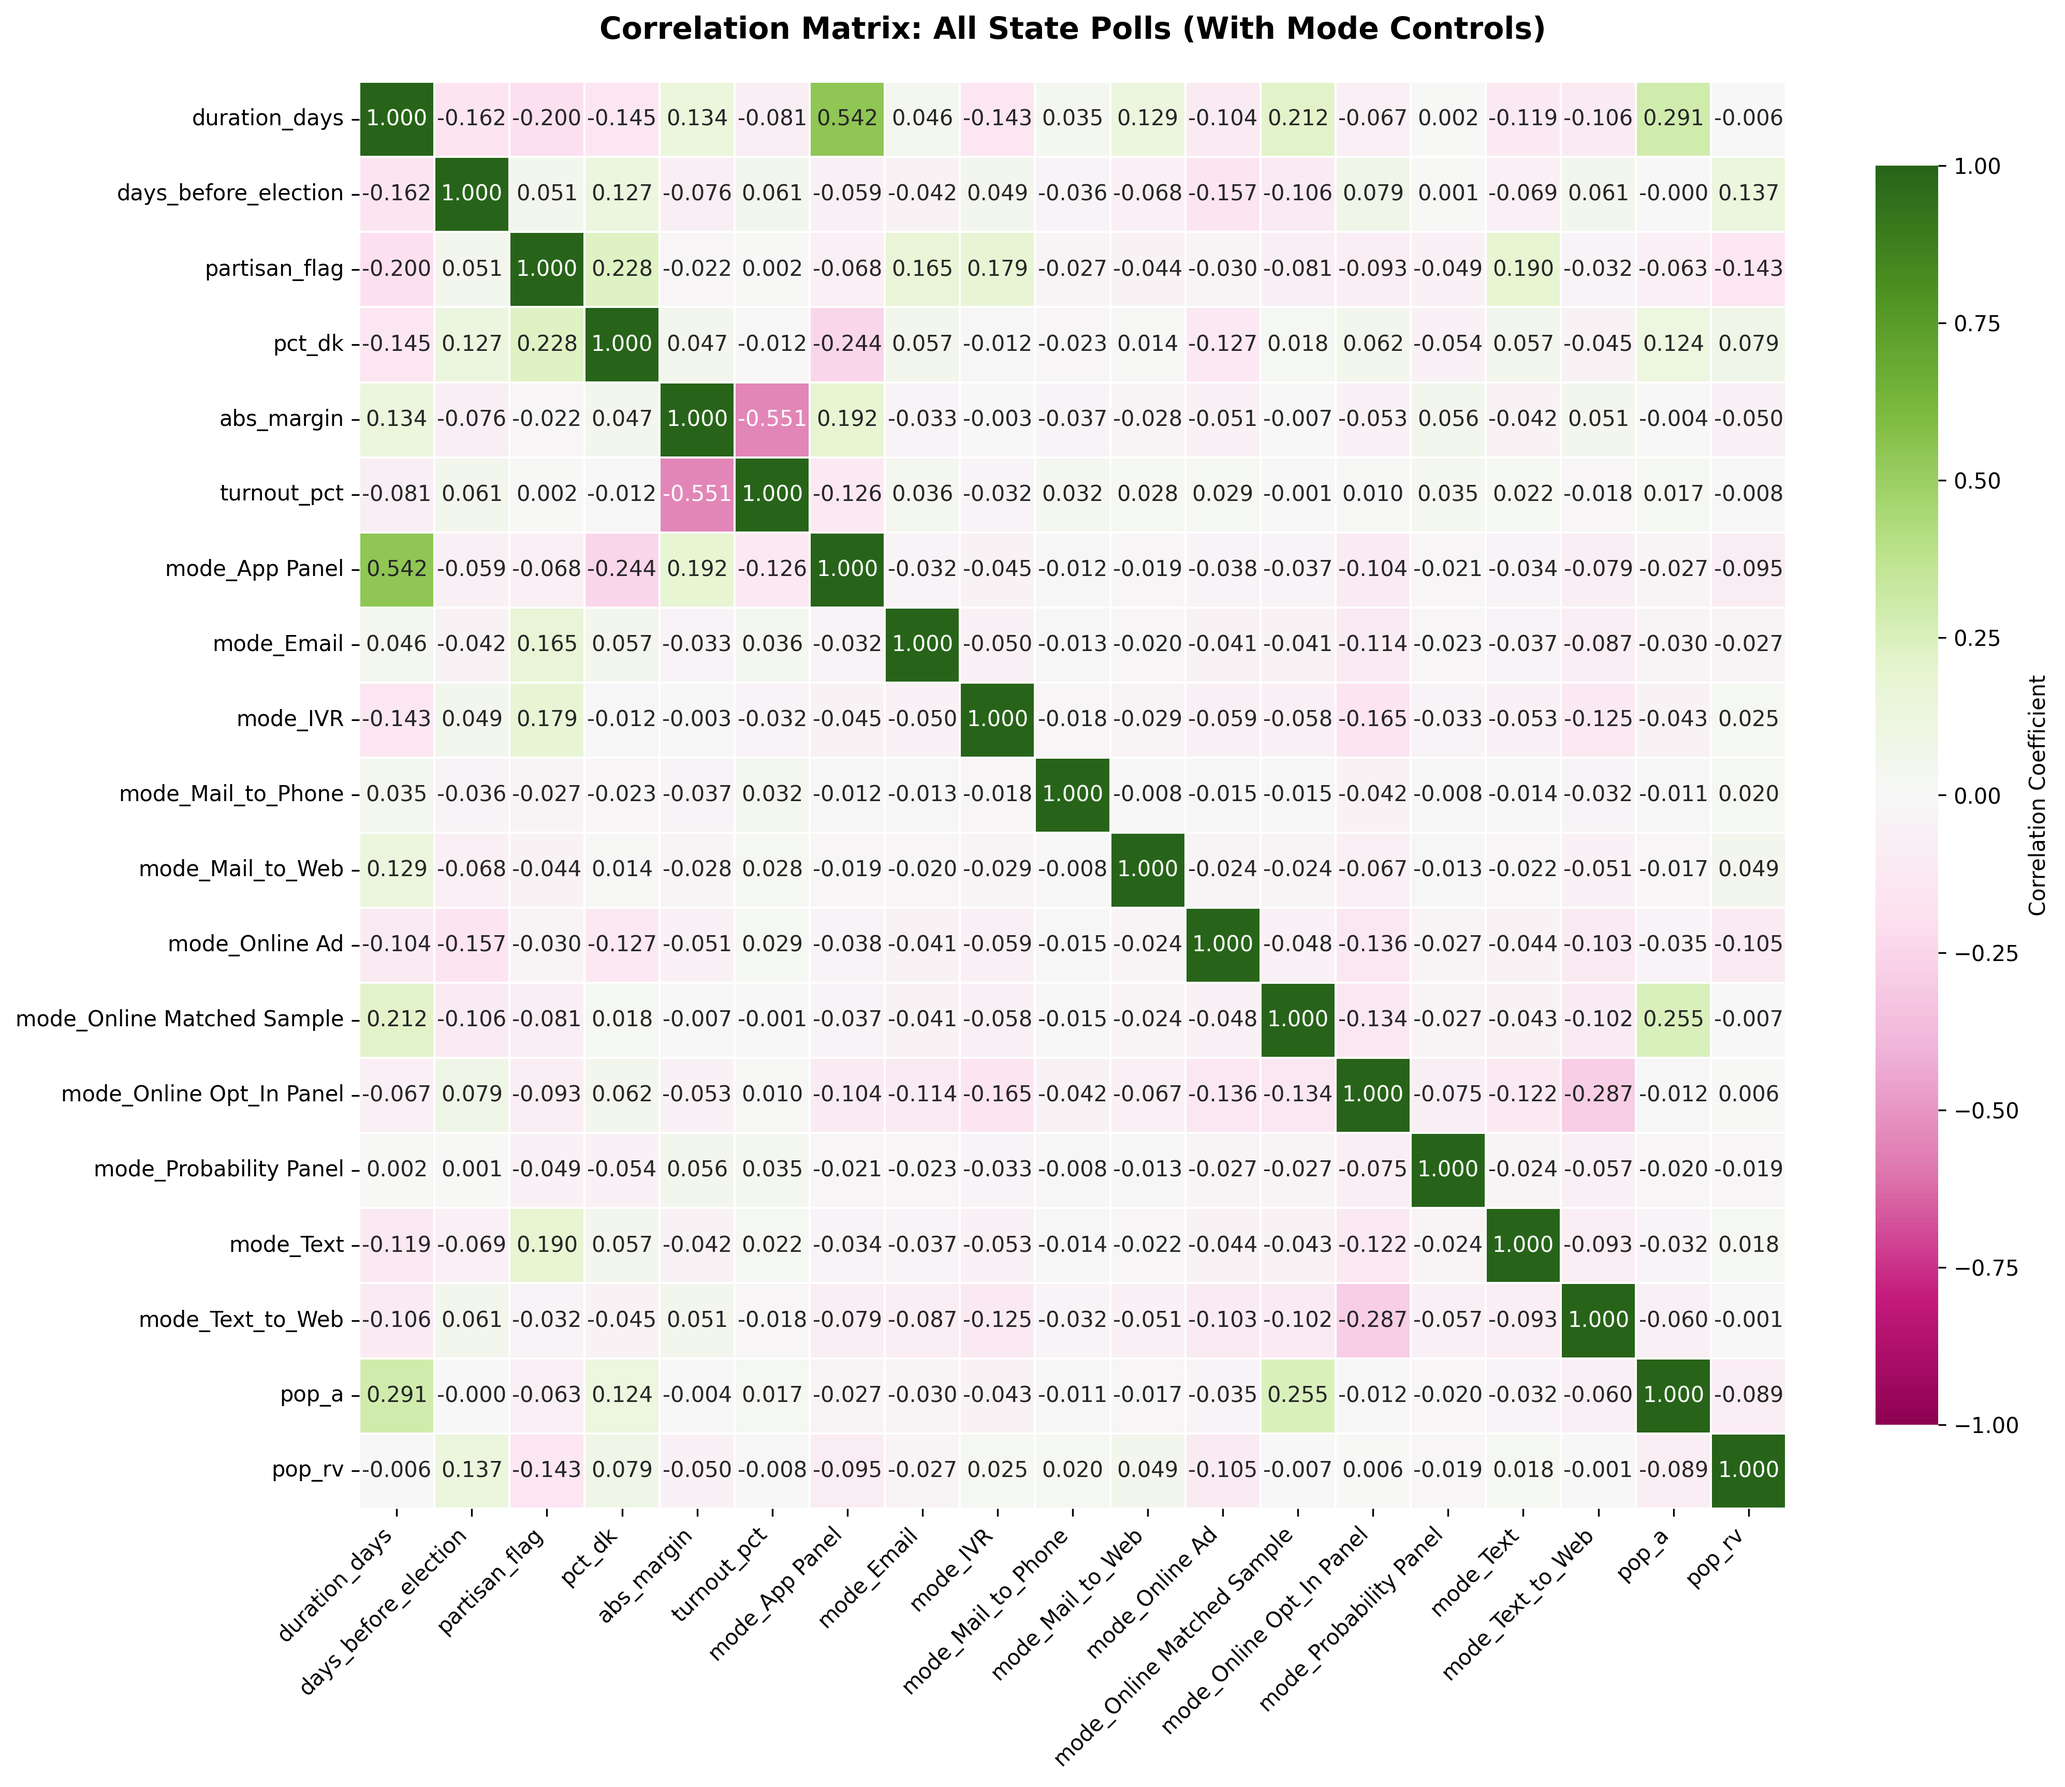
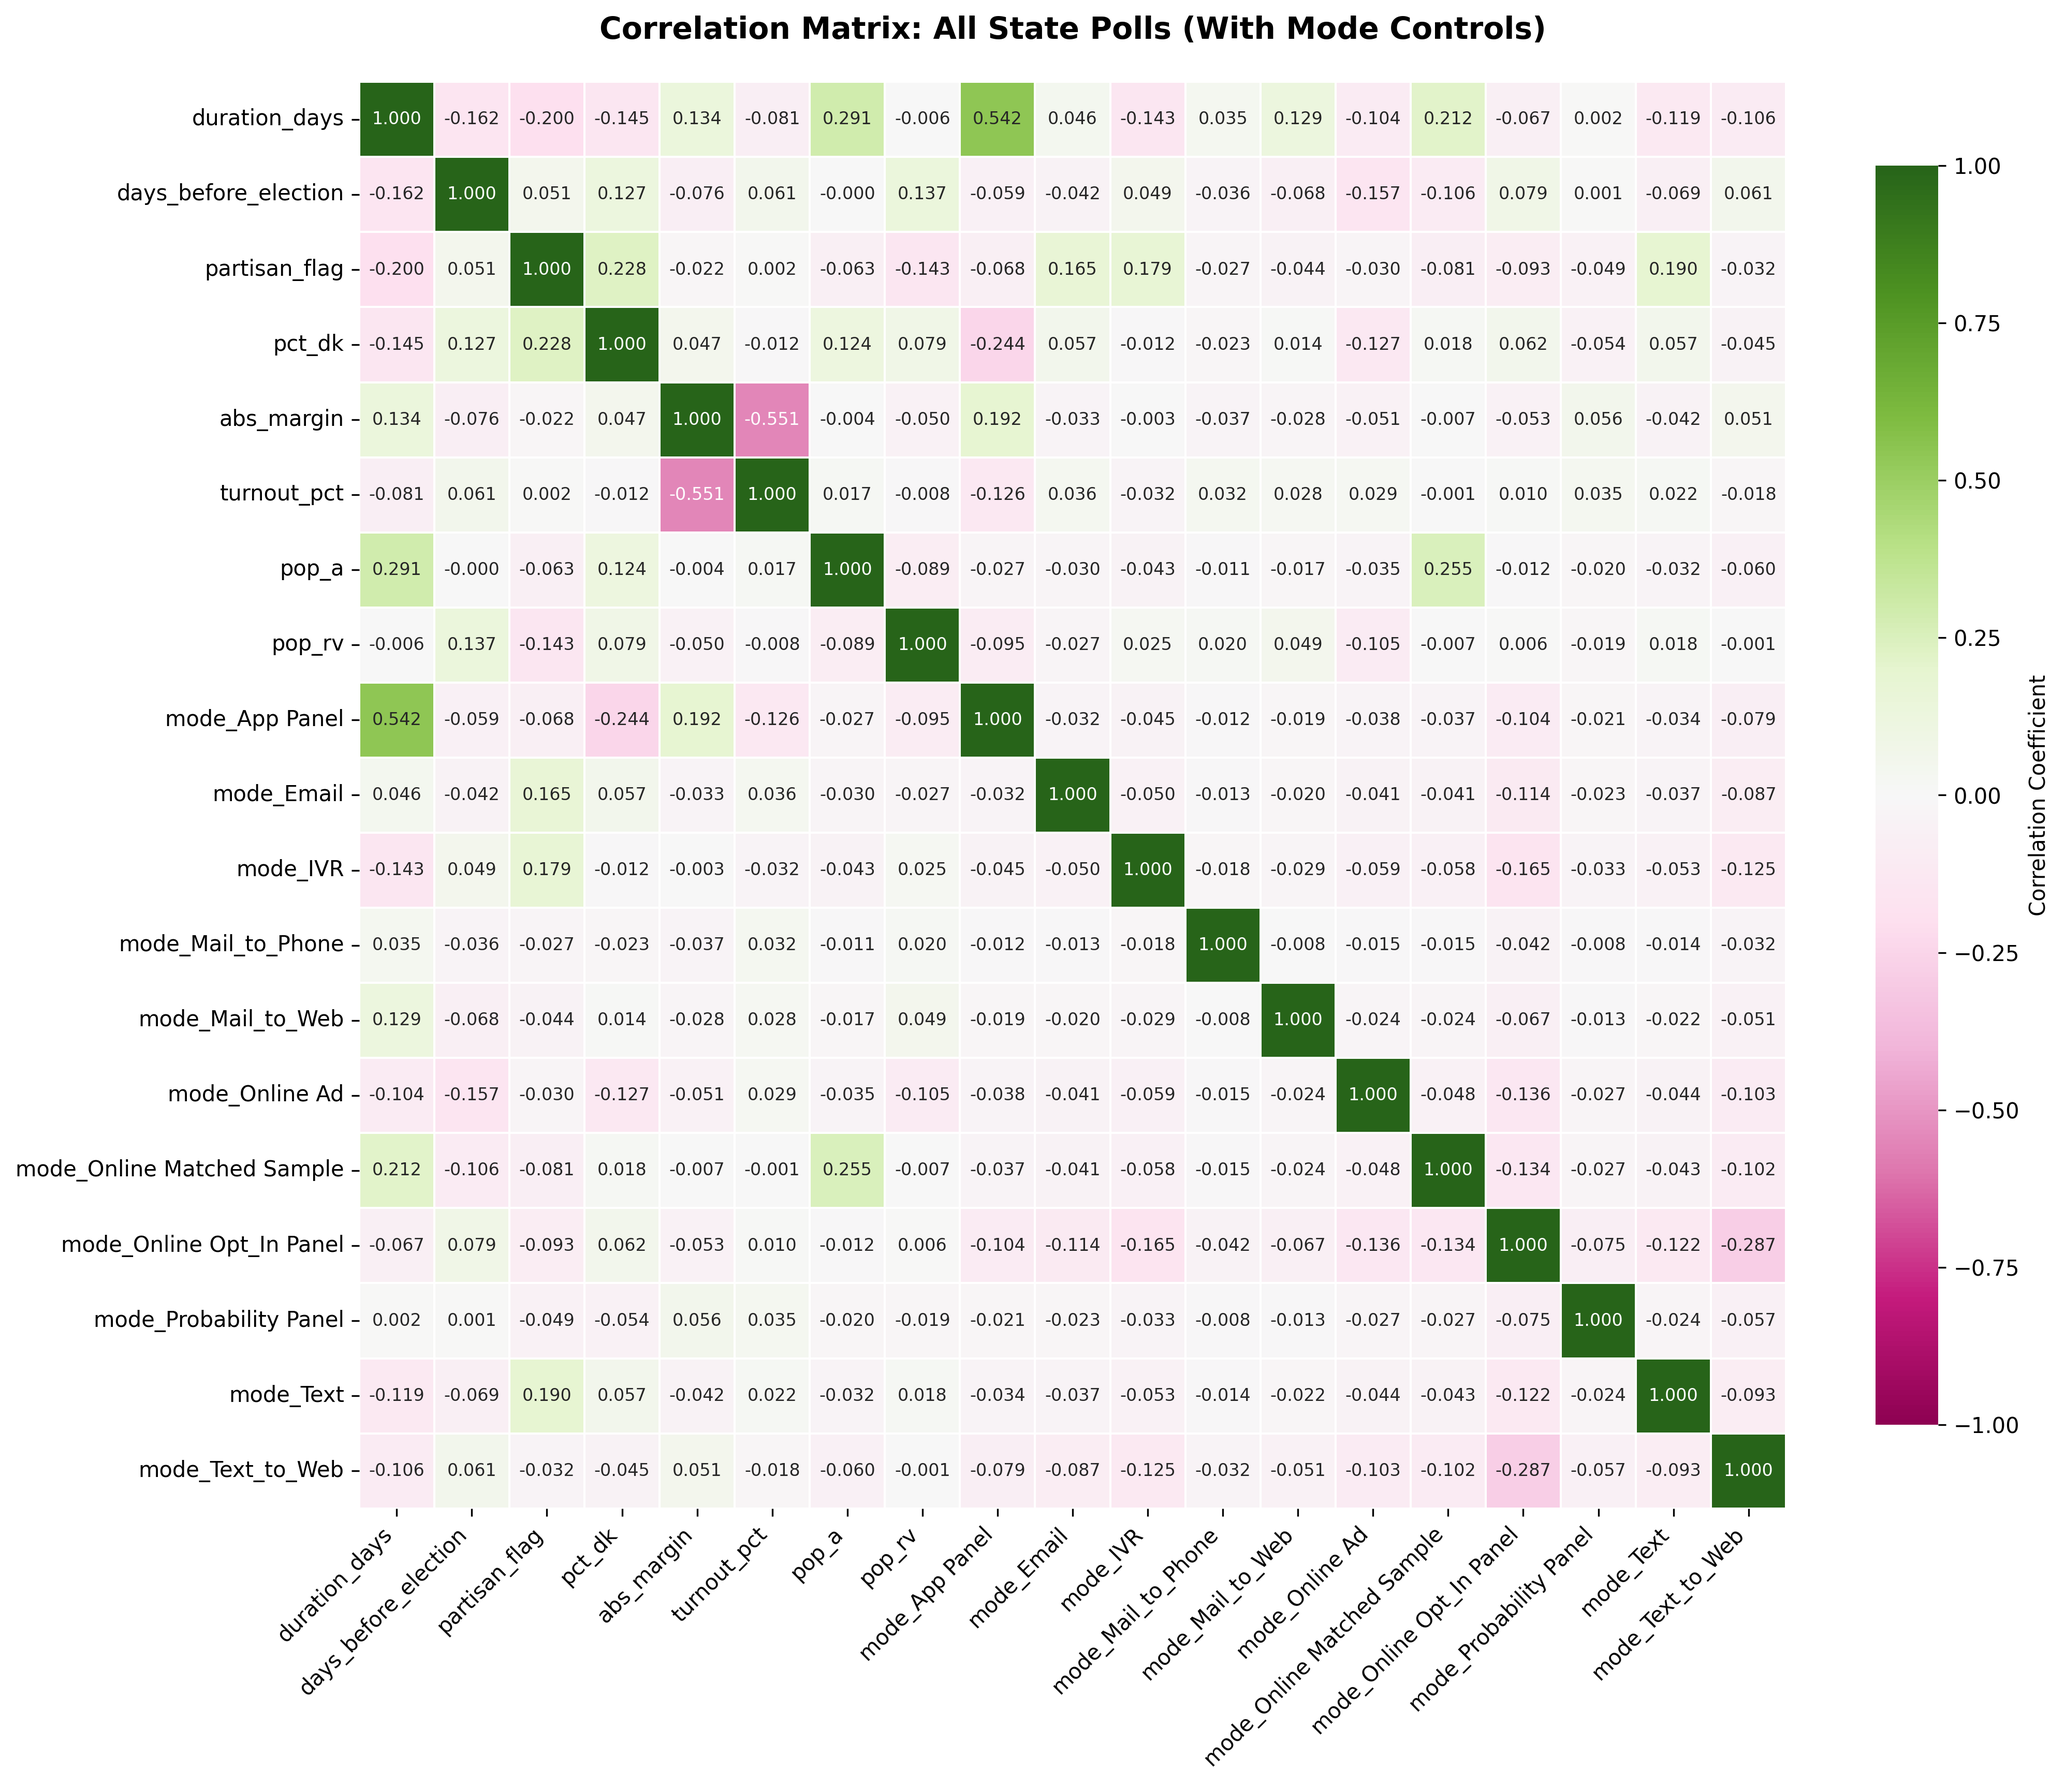
understanding correlation

diff --git a/fiftyplusone_datelimited_clustertwoway_with_partisan_and_lv_anlaysis.py b/fiftyplusone_datelimited_clustertwoway_with_partisan_and_lv_anlaysis.py
@@ -1515,18 +1515,18 @@ print("="*110)
 
 # State variables
 print("\nSwing state-level polls:")
-corr_state_swing = reg_state_swing_original[state_x_vars_no_mode].corr()
-print(corr_state_swing.to_string())
+corr_state_swing_no_mode = reg_state_swing_original[state_x_vars_no_mode].corr()
+print(corr_state_swing_no_mode.to_string())
 
 # State variables
 print("\nState-level polls:")
-corr_state = reg_state_original[state_x_vars_no_mode].corr()
-print(corr_state.to_string())
+corr_state_no_mode = reg_state_original[state_x_vars_no_mode].corr()
+print(corr_state_no_mode.to_string())
 
 # National variables
 print("\n\nNational polls:")
-corr_national = reg_national_original[national_x_vars_no_mode].corr()
-print(corr_national.to_string())
+corr_national_no_mode = reg_national_original[national_x_vars_no_mode].corr()
+print(corr_national_no_mode.to_string())
 
 print("="*110 + "\n")
 
@@ -1564,11 +1564,16 @@ def create_correlation_heatmap(corr_matrix, title, filename, figsize=(12, 10)):
     """
     fig, ax = plt.subplots(figsize=figsize)
     
+    # adjust annotation font size based on matrix size
+    n_vars = len(corr_matrix)
+    annot_fontsize = 10 if n_vars <= 8 else 8
+    
     # Create heatmap using a purple-green colormap (avoiding red/blue)
     sns.heatmap(
         corr_matrix,
         annot=True,           # Show correlation values
         fmt='.3f',            # Format to 3 decimal places
+        annot_kws={'fontsize': annot_fontsize},  # font size control
         cmap='PiYG',          # Purple-Yellow-Green colormap
         center=0,             # Center colormap at 0
         square=True,          # Make cells square
@@ -1584,8 +1589,8 @@ def create_correlation_heatmap(corr_matrix, title, filename, figsize=(12, 10)):
     
     # Formatting
     ax.set_title(title, fontsize=14, fontweight='bold', pad=20)
-    plt.xticks(rotation=45, ha='right')
-    plt.yticks(rotation=0)
+    plt.xticks(rotation=45, ha='right', fontsize=10)
+    plt.yticks(rotation=0, fontsize=10)
     plt.tight_layout()
     
     # Save figure
@@ -1593,63 +1598,148 @@ def create_correlation_heatmap(corr_matrix, title, filename, figsize=(12, 10)):
     print(f"  Saved: {filename}")
     plt.close()
 
-# NO MODE CORRELATIONS
 
-# Swing States (no mode)
+# define consistent variable ordering
+# shared variables first, then population variables, then mode variables
+shared_vars_state = ['duration_days', 'days_before_election', 'partisan_flag', 
+                     'pct_dk', 'abs_margin', 'turnout_pct']
+shared_vars_national = ['duration_days', 'days_before_election', 'partisan_flag', 'pct_dk']
+pop_vars_ordered = ['pop_a', 'pop_rv']  # alphabetical for consistency
+
+# NO MODE CORRELATIONS (with reordering)
+
+# Swing States (no mode) - reorder to match shared_vars_state + pop_vars
+var_order_state_no_mode = [v for v in shared_vars_state + pop_vars_ordered if v in corr_state_swing_no_mode.columns]
+corr_state_swing_no_mode_reordered = corr_state_swing_no_mode.loc[var_order_state_no_mode, var_order_state_no_mode]
+
 create_correlation_heatmap(
-    corr_state_swing,
+    corr_state_swing_no_mode_reordered,
     'Correlation Matrix: Swing State Polls (No Mode Controls)',
     'figures/correlation_swing_no_mode.png',
-    figsize=(10, 8)
+    figsize=(14, 12)
 )
 
-# All States (no mode)
+# All States (no mode) - reorder to match shared_vars_state + pop_vars
+var_order_state_no_mode_all = [v for v in shared_vars_state + pop_vars_ordered if v in corr_state_no_mode.columns]
+corr_state_no_mode_reordered = corr_state_no_mode.loc[var_order_state_no_mode_all, var_order_state_no_mode_all]
+
 create_correlation_heatmap(
-    corr_state,
+    corr_state_no_mode_reordered,
     'Correlation Matrix: All State Polls (No Mode Controls)',
     'figures/correlation_all_states_no_mode.png',
-    figsize=(10, 8)
+    figsize=(14, 12)
 )
 
-# National (no mode)
+# National (no mode) - reorder to match shared_vars_national + pop_vars
+var_order_national_no_mode = [v for v in shared_vars_national + pop_vars_ordered if v in corr_national_no_mode.columns]
+corr_national_no_mode_reordered = corr_national_no_mode.loc[var_order_national_no_mode, var_order_national_no_mode]
+
 create_correlation_heatmap(
-    corr_national,
+    corr_national_no_mode_reordered,
     'Correlation Matrix: National Polls (No Mode Controls)',
     'figures/correlation_national_no_mode.png',
-    figsize=(8, 6)
+    figsize=(14, 12)
 )
 
-# WITH MODE CORRELATIONS
+# WITH MODE CORRELATIONS (with reordering)
 
-# Recalculate for proper variable order in heatmap
+# Recalculate correlations for with-mode versions
 corr_state_swing_mode = reg_state_swing[state_x_vars_with_mode].corr()
 corr_state_mode = reg_state[state_x_vars_with_mode].corr()
 corr_national_mode = reg_national[national_x_vars_with_mode].corr()
 
-# Swing States (with mode)
+# get mode variables in sorted order
+mode_vars_sorted = sorted([v for v in mode_vars if v.startswith('mode_')])
+
+# Swing States (with mode) - shared vars + pop vars + mode vars
+var_order_state_with_mode = [v for v in shared_vars_state + pop_vars_ordered + mode_vars_sorted 
+                             if v in corr_state_swing_mode.columns]
+corr_state_swing_mode_reordered = corr_state_swing_mode.loc[var_order_state_with_mode, var_order_state_with_mode]
+
 create_correlation_heatmap(
-    corr_state_swing_mode,
+    corr_state_swing_mode_reordered,
     'Correlation Matrix: Swing State Polls (With Mode Controls)',
     'figures/correlation_swing_with_mode.png',
     figsize=(14, 12)
 )
 
-# All States (with mode)
+# All States (with mode) - shared vars + pop vars + mode vars
+var_order_state_with_mode_all = [v for v in shared_vars_state + pop_vars_ordered + mode_vars_sorted 
+                                 if v in corr_state_mode.columns]
+corr_state_mode_reordered = corr_state_mode.loc[var_order_state_with_mode_all, var_order_state_with_mode_all]
+
 create_correlation_heatmap(
-    corr_state_mode,
+    corr_state_mode_reordered,
     'Correlation Matrix: All State Polls (With Mode Controls)',
     'figures/correlation_all_states_with_mode.png',
     figsize=(14, 12)
 )
 
-# National (with mode)
+# National (with mode) - shared vars + pop vars + mode vars
+var_order_national_with_mode = [v for v in shared_vars_national + pop_vars_ordered + mode_vars_sorted 
+                                if v in corr_national_mode.columns]
+corr_national_mode_reordered = corr_national_mode.loc[var_order_national_with_mode, var_order_national_with_mode]
+
 create_correlation_heatmap(
-    corr_national_mode,
+    corr_national_mode_reordered,
     'Correlation Matrix: National Polls (With Mode Controls)',
     'figures/correlation_national_with_mode.png',
-    figsize=(12, 10)
+    figsize=(14, 12)
 )
 
+# CORRECTED CORRELATION COMPARISON
+print("\n" + "="*110)
+print("CORRECTED CORRELATION COMPARISON: ORIGINAL vs EXPLODED DATA")
+print("="*110)
+
+shared_vars = ['duration_days', 'days_before_election', 'pct_dk', 'abs_margin', 'turnout_pct', 'partisan_flag']
+
+# Get the actual correlation matrices being plotted
+corr_orig_swing = reg_state_swing_original[shared_vars + ['pop_a', 'pop_rv']].corr()
+corr_expl_swing = reg_state_swing[shared_vars + ['pop_a', 'pop_rv']].corr()
+
+print("\nSwing States - Shared Variables:")
+print(f"{'Variable Pair':<50} {'Original':>12} {'Exploded':>12} {'Difference':>12}")
+print("-" * 86)
+
+for i, var1 in enumerate(shared_vars):
+    for var2 in shared_vars[i+1:]:
+        corr_orig = corr_orig_swing.loc[var1, var2]
+        corr_expl = corr_expl_swing.loc[var1, var2]
+        diff = corr_expl - corr_orig
+        marker = " ***" if abs(diff) > 0.05 else ""
+        print(f"{var1} × {var2:<35} {corr_orig:>12.4f} {corr_expl:>12.4f} {diff:>12.4f}{marker}")
+
+print(f"\nSample sizes:")
+print(f"  Original (no-mode): {len(reg_state_swing_original)}")
+print(f"  Exploded (with-mode): {len(reg_state_swing)}")
+
+# Check which polls got exploded the most
+print(f"\nAnalyzing mode explosion patterns:")
+mode_counts = reg_state_swing.groupby('poll_id').size()
+orig_counts = reg_state_swing_original.groupby('poll_id').size()
+
+# Find polls that increased in size
+explosion_factor = mode_counts / orig_counts
+high_explosion = explosion_factor[explosion_factor > 1.5].sort_values(ascending=False)
+
+print(f"\nPolls with >50% explosion (top 10):")
+print(f"{'Poll ID':<15} {'Original':>10} {'Exploded':>10} {'Factor':>10}")
+print("-" * 45)
+for poll_id in high_explosion.head(10).index:
+    orig = orig_counts.loc[poll_id]
+    expl = mode_counts.loc[poll_id]
+    factor = expl / orig
+    
+    # Get poll characteristics
+    poll_data = reg_state_swing_original[reg_state_swing_original['poll_id'] == poll_id].iloc[0]
+    print(f"{poll_id:<15} {int(orig):>10} {int(expl):>10} {factor:>10.2f}x")
+    print(f"  Mode: {poll_data['mode']}")
+    print(f"  Duration: {poll_data['duration_days']:.0f} days, "
+          f"Partisan: {poll_data['partisan_flag']}, "
+          f"pct_dk: {poll_data['pct_dk']:.1f}")
+
+print("="*110 + "\n")
 
 ########################################################################################
 #################### POLLSTER DIST ######################
